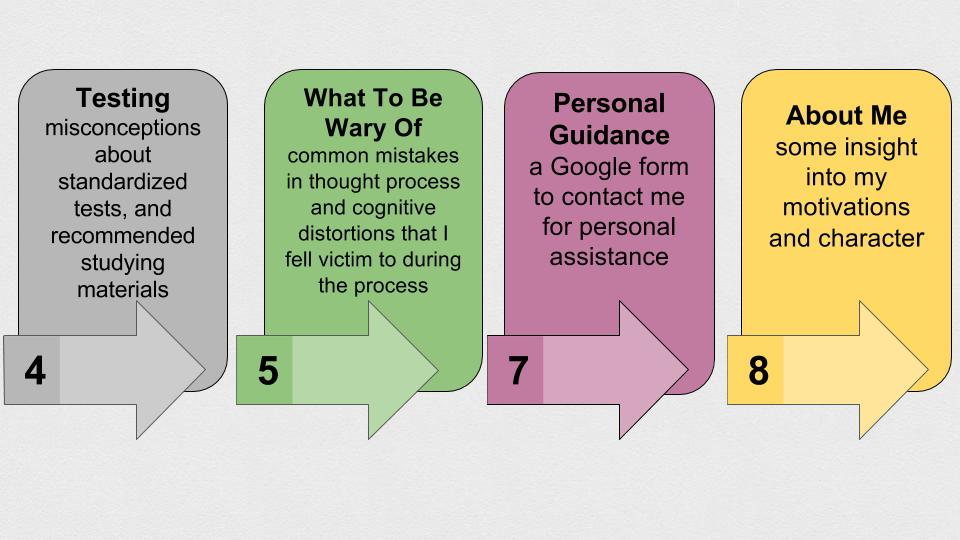
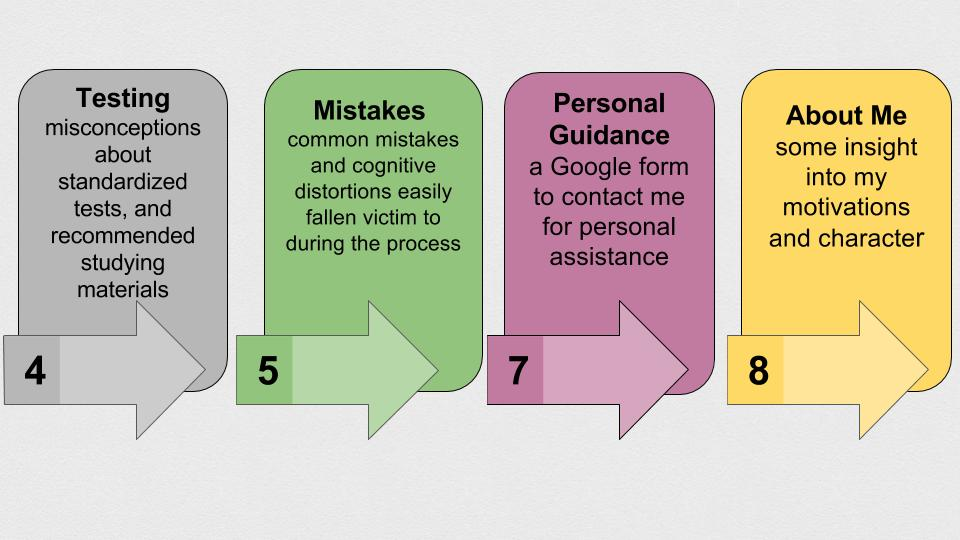
adding arrows and changing to be wary of to mistakes

Changed region(s): [[0.2812, 0.1481, 0.5, 0.563]]

diff --git a/Logic Flaws/index.html b/Logic Flaws/index.html
@@ -15,13 +15,13 @@
     <li><a href="../Demonstrated%20Interest/index.html">Demonstrated Interest</a></li>
     <!--<li><a href="../">The College Essay</a></li> -->
     <li><a href= "../Testing/index.html">Testing</a></li>
-    <li><a href="../Logic%20Flaws/index.html">To Be Wary Of</a></li>
+    <li><a href="../Logic%20Flaws/index.html">Mistakes</a></li>
     <li><a href="../Personal%20Guidance/index.html">Personal Guidance</a></li>
     <li><a href="../About%20Me/index.html">About Me</a></li>
   </ul>
 
   <div class = "top-title">
-    <p>What To Be Wary Of</p>
+    <p>Mistakes To Be Wary Of</p>
   </div>
   <div class = "content">
     <p>This section is perhaps the one that I neglected the most throughout the application process and this resulted in some unnecessary anxiety, waste of time, and likely had a negative effect on the strength of my application.</p>
@@ -67,4 +67,7 @@
   <div class = "title">
     <!--Acceptance Chance Calculators-->
   </div>
+
+  <a href = "../Personal%20Guidance/index.html"><img class = "arrow" src = "personalguidancearrow.png"></img></a>
+
 </html>

diff --git a/Personal Guidance/index.html b/Personal Guidance/index.html
@@ -14,7 +14,7 @@
     <li><a href="../Demonstrated%20Interest/index.html">Demonstrated Interest</a></li>
     <!--<li><a href="../">The College Essay</a></li> -->
     <li><a href= "../Testing/index.html">Testing</a></li>
-    <li><a href="../Logic%20Flaws/index.html">To Be Wary Of</a></li>
+    <li><a href="../Logic%20Flaws/index.html">Mistakes</a></li>
     <li><a href="../Personal%20Guidance/index.html">Personal Guidance</a></li>
     <li><a href="../About%20Me/index.html">About Me</a></li>
 
@@ -30,6 +30,9 @@
 Use this google form to ask questions, give criticisms, ask for guidance, etc and I will do my best to get back to you.
 </div>
 <iframe src="https://docs.google.com/forms/d/e/1FAIpQLSerlJsrtWic7ZtXINoSinl3V0gm26ETXavZi-DCKpYKGWJEnA/viewform?embedded=true" width=100% height="1320" frameborder="0" marginheight="0" marginwidth="0">Loading...</iframe>
+
+<a href = "../About%20Me/index.html"><img class = "arrow" src = "aboutmearrow.png"></img></a>
+
 <div class = "citations-and-disclaimers-title">
   Citations and Disclaimers
 </div>

diff --git a/Testing/index.html b/Testing/index.html
@@ -14,7 +14,7 @@
   <li><a href="../Demonstrated%20Interest/index.html">Demonstrated Interest</a></li>
   <!--<li><a href="../">The College Essay</a></li> -->
   <li><a href= "../Testing/index.html">Testing</a></li>
-  <li><a href="../Logic%20Flaws/index.html">To Be Wary Of</a></li>
+  <li><a href="../Logic%20Flaws/index.html">Mistakes</a></li>
   <li><a href="../Personal%20Guidance/index.html">Personal Guidance</a></li>
   <li><a href="../About%20Me/index.html">About Me</a></li>
 
@@ -258,6 +258,9 @@
 <div class = "content">
   <p><span style = "font-weight: bold">AP TEST SECTION UNDER CONSTRUCTION AND WILL BE AVAILABLE SOON</span></p>
 </div>
+
+<a href = "../Logic%20Flaws/index.html"><img class = "arrow" src = "mistakesarrow.png"></img></a>
+
 <div class = "citations-and-disclaimers-title">
   <p>Citations and Disclaimers</p>
 </div>

diff --git a/What Schools to Apply To/index.html b/What Schools to Apply To/index.html
@@ -14,7 +14,7 @@
     <li><a href="../Demonstrated%20Interest/index.html">Demonstrated Interest</a></li>
     <!--<li><a href="../">The College Essay</a></li> -->
     <li><a href= "../Testing/index.html">Testing</a></li>
-    <li><a href="../Logic%20Flaws/index.html">To Be Wary Of</a></li>
+    <li><a href="../Logic%20Flaws/index.html">Mistakes</a></li>
     <li><a href="../Personal%20Guidance/index.html">Personal Guidance</a></li>
     <li><a href="../About%20Me/index.html">About Me</a></li>
   </ul>

diff --git a/About Me/index.html b/About Me/index.html
@@ -15,7 +15,7 @@
     <li><a href="../Demonstrated%20Interest/index.html">Demonstrated Interest</a></li>
     <!--<li><a href="../">The College Essay</a></li> -->
     <li><a href= "../Testing/index.html">Testing</a></li>
-    <li><a href="../Logic%20Flaws/index.html">To Be Wary Of</a></li>
+    <li><a href="../Logic%20Flaws/index.html">Mistakes</a></li>
     <li><a href="../Personal%20Guidance/index.html">Personal Guidance</a></li>
     <li><a href="../About%20Me/index.html">About Me</a></li>
 

diff --git a/Demonstrated Interest/index.html b/Demonstrated Interest/index.html
@@ -15,7 +15,7 @@
     <li><a href="../Demonstrated%20Interest/index.html">Demonstrated Interest</a></li>
     <!--<li><a href="../">The College Essay</a></li> -->
     <li><a href= "../Testing/index.html">Testing</a></li>
-    <li><a href="../Logic%20Flaws/index.html">To Be Wary Of</a></li>
+    <li><a href="../Logic%20Flaws/index.html">Mistakes</a></li>
     <li><a href="../Personal%20Guidance/index.html">Personal Guidance</a></li>
     <li><a href="../About%20Me/index.html">About Me</a></li>
 

diff --git a/Intangibles/index.html b/Intangibles/index.html
@@ -16,7 +16,7 @@
     <li><a href="../Demonstrated%20Interest/index.html">Demonstrated Interest</a></li>
     <!--<li><a href="../">The College Essay</a></li> -->
     <li><a href= "../Testing/index.html">Testing</a></li>
-    <li><a href="../Logic%20Flaws/index.html">To Be Wary Of</a></li>
+    <li><a href="../Logic%20Flaws/index.html">Mistakes</a></li>
     <li><a href="../Personal%20Guidance/index.html">Personal Guidance</a></li>
     <li><a href="../About%20Me/index.html">About Me</a></li>
 

diff --git a/Home/index.html b/Home/index.html
@@ -51,7 +51,7 @@
   <li><a href="../Demonstrated%20Interest/index.html">Demonstrated Interest</a></li>
   <!--<li><a href="">The College Essay</a></li> -->
   <li><a href = "../Testing/index.html">Testing</a></li>
-  <li><a href="../Logic%20Flaws/index.html">To Be Wary Of</a></li>
+  <li><a href="../Logic%20Flaws/index.html">Mistakes</a></li>
   <li><a href="../Personal%20Guidance/index.html">Personal Guidance</a></li>
   <li><a href="../About%20Me/index.html">About Me</a></li>
 

diff --git a/stylesheet/styles.css b/stylesheet/styles.css
@@ -16,7 +16,7 @@ body {
   z-index: 1;
 }
 .flag{
-  width: 23%;
+  width: 25%;
   position: absolute;
   z-index: 2;
 }
